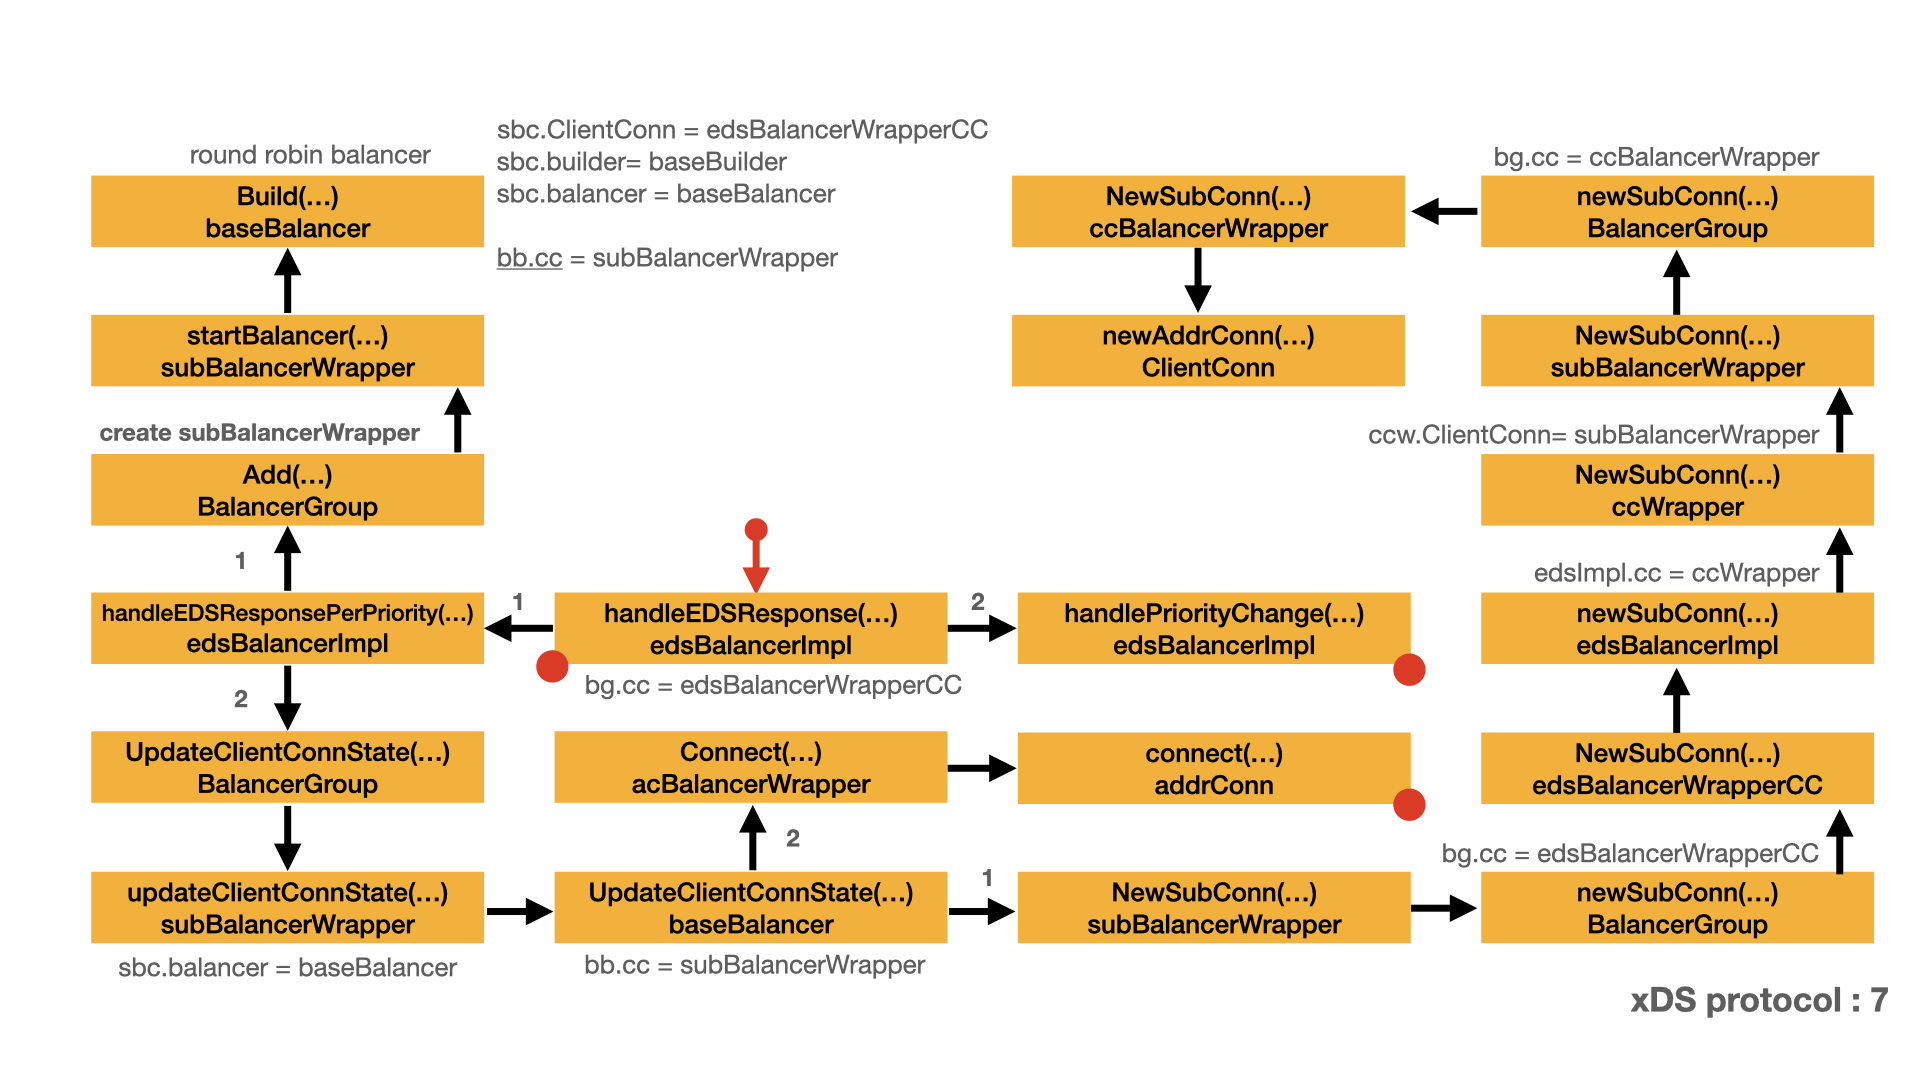
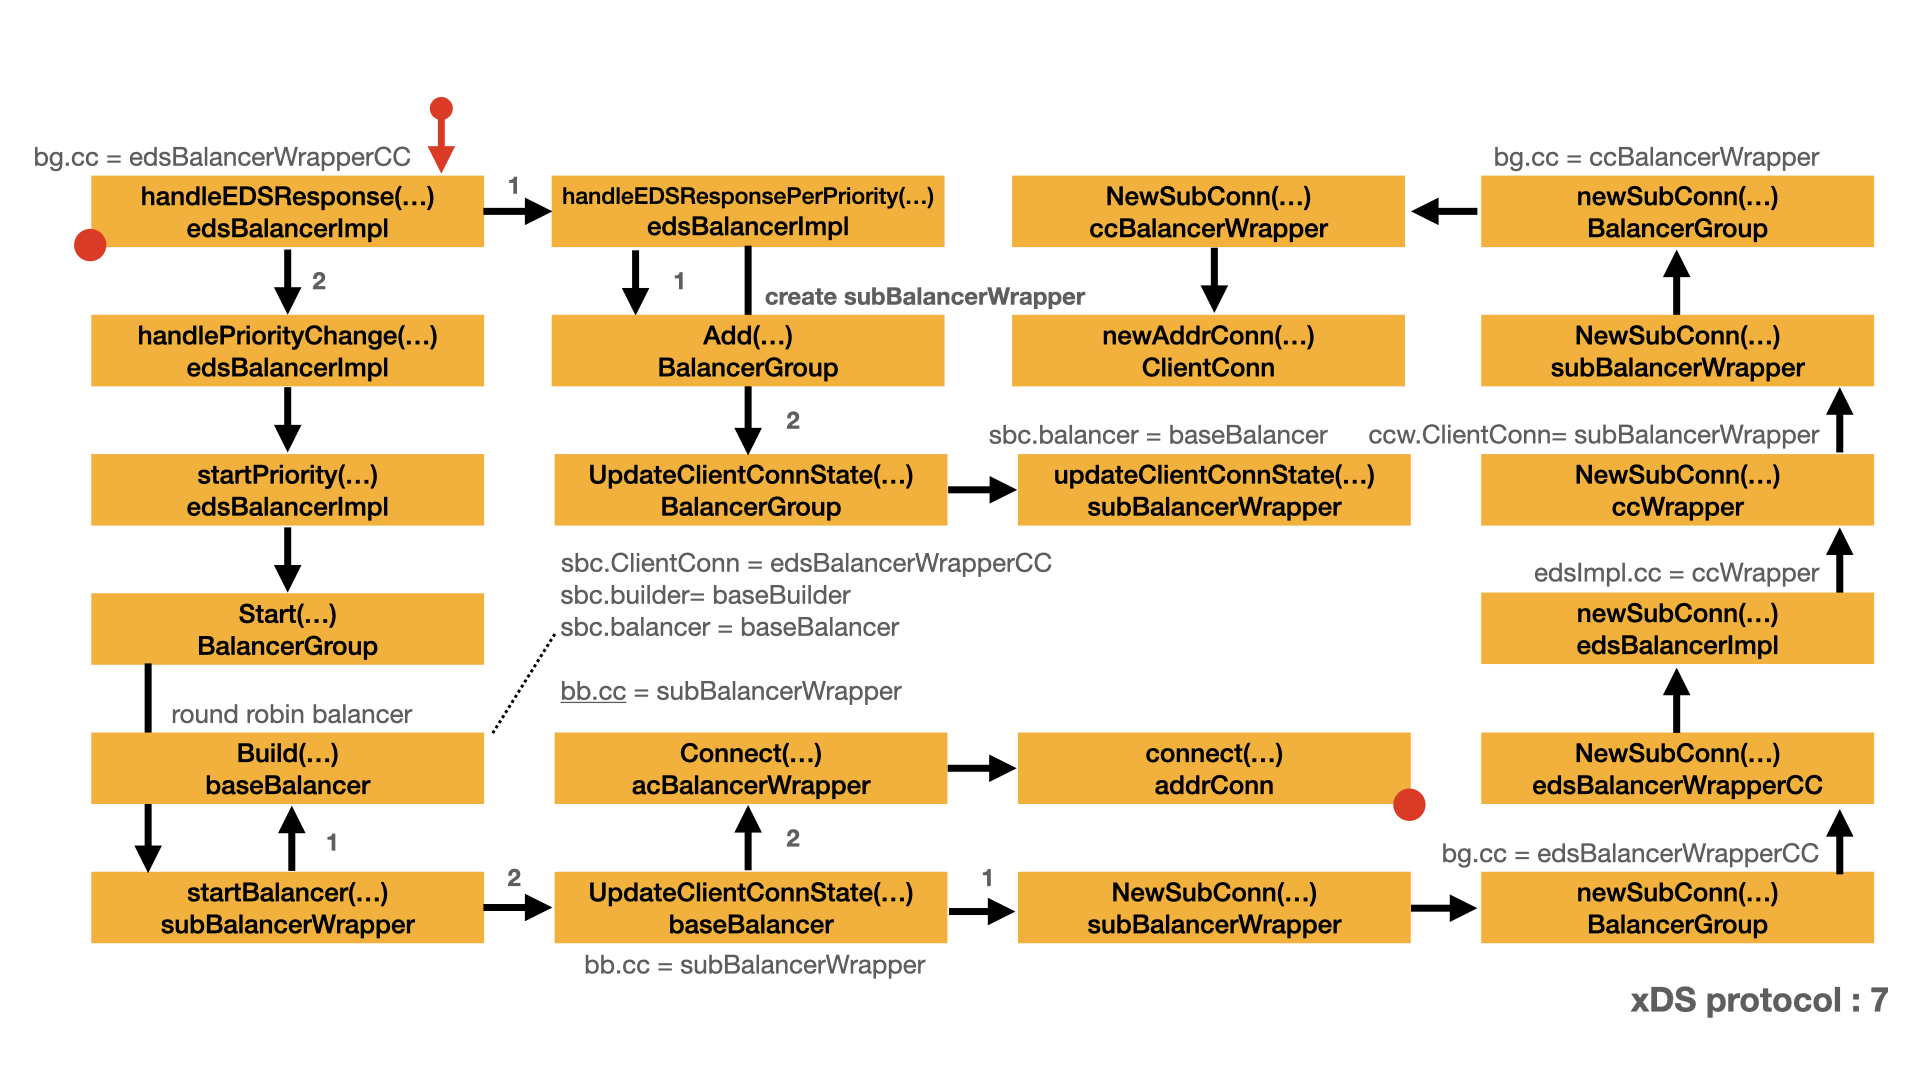
rewrite handlePriorityChange()

diff --git a/docs/conn.md b/docs/conn.md
@@ -2,6 +2,7 @@
 
 - [Connect to upstream server](#connect-to-upstream-server)
   - [Add sub balancer](#add-sub-balancer)
+  - [Start balancer](#start-balancer)
   - [Update connection state](#update-connection-state)
   - [Prepare for the sub-connection](#prepare-for-the-sub-connection)
   - [Start connection](#start-connection)
@@ -13,7 +14,9 @@
 
 ## Connect to upstream server
 
-This is the second article of EDS processing. xDS protocol is a complex protocol. Compare with `pickfirst` balancer, xDS needs more steps to connect with the upstream server. After the [Process EDS update](eds2.md#process-eds-update), we are ready to initialize endpoints by priority.
+EDS response endpoints is re-ordered by priority. Each priority has a balancer group. Each priority contains several localities. Each locality contains several endpoints. Each locality has a sub-balancer for those endpoints. Each locality is a member of the previous balancer group.
+
+This is the second article of EDS processing. xDS protocol is a complex protocol. Compare with `pickfirst` balancer, xDS needs more steps to connect with the upstream server. After the [Process EDS update](eds2.md#process-eds-update), we are ready to initialize endpoints by priority. Only the priority in use is started, other priority locality is waiting for start.
 
 In this stage, we continue the discussion of xDS protocol: connect to upstream server.  Here is the map for this stage. In this map:
 
@@ -93,15 +96,13 @@ func New(cc balancer.ClientConn, stateAggregator BalancerStateAggregator, loadSt
 }
 ```
 
-`edsImpl.handleEDSResponsePerPriority()` is called to initialize endpoints by priority. Each priority may has several endpoints.
+`edsImpl.handleEDSResponsePerPriority()` creates a sub-balancer for each locality, the sub-balancer contains the address of all the endpoints.
 
 In `handleEDSResponsePerPriority()`, for each `locality`, if the `locality` doesn't exist in `bgwc.configs`, calls `bgwc.bg.Add()` to add it.
 
 - `bgwc.bg.Add()` is actually `BalancerGroup.Add()`.
 - `edsImpl.subBalancerBuilder` is the argument for the `builder balancer.Builder` parameter.
 - `lidJSON` is the JSON representation of `locality.ID`, as the argument for the `id string` parameter.
-
-Let's discuss the `BalancerGroup.Add()` first.
 
 If the `locality` is added, which means `addrsChanged = true`, `handleEDSResponsePerPriority()` calls `bgwc.bg.UpdateClientConnState()` to forward the request to `bgwc.bg`.
 
@@ -110,7 +111,7 @@ If the `locality` is added, which means `addrsChanged = true`, `handleEDSRespons
 - `bgwc` is created in previous `handleEDSResponse()`.
 - `bgwc.bg` is also created in previous `handleEDSResponse()`. `bgwc.bg.cc` is of type `edsBalancerWrapperCC`.
 
-After the discuss of `BalancerGroup.Add()`, Let's discuss the `UpdateClientConnState()` in detail.
+Let's discuss the `BalancerGroup.Add()` first.
 
 ```go
 func (edsImpl *edsBalancerImpl) handleEDSResponsePerPriority(bgwc *balancerGroupWithConfig, newLocalities []xdsclient.Locality) {
@@ -272,11 +273,14 @@ func NewBalancerBuilder(name string, pb PickerBuilder, config Config) balancer.B
 }
 ```
 
-`BalancerGroup.Add()` creates a `subBalancerWrapper` and  calls `sbc.startBalancer()` to build and initialize the `balancer`.
+`BalancerGroup.Add()` creates a `subBalancerWrapper`, which wraps the real `balancer`.
 
 - Here, the `group` field of `sbc` is assigned the value of `bg`.
 - Please note that `subBalancerWrapper.ClientConn` get the value from `bg.cc`, while `bgwc.bg.cc` is of type `edsBalancerWrapperCC`.
 - Which means `subBalancerWrapper.ClientConn` is of type `edsBalancerWrapperCC`.
+- In our case, the first EDS response, `bg.outgoingStarted` is false. `sbc.startBalancer()` will not be called.
+
+`sbc.startBalancer()` is not called, which means the sub-balancer for this locality just hold the static data, it will not connect with the upstream server.
 
 ```go
 // Add adds a balancer built by builder to the group, with given id.
@@ -327,11 +331,222 @@ func (bg *BalancerGroup) Add(id string, builder balancer.Builder) {
 }
 ```
 
-`sbc.startBalancer()` calls `sbc.builder.Build()` to create a balancer. `sbc.builder.Build()` is actually `baseBuilder.Build()`.
+After sub-balancer is created and added to the balancer group, `handleEDSResponsePerPriority()` calls `bgwc.bg.UpdateClientConnState()` to forward the request to balancer group. In `BalancerGroup.UpdateClientConnState()`,
+
+- `bg.idToBalancerConfig[id]` is checked, if `id` exists, then calls `config.updateClientConnState()`.
+- Here, `config` is of type `*subBalancerWrapper`.
+- `bg.idToBalancerConfig[id]` is created in `BalancerGroup.Add()`.
+- `config.updateClientConnState()` is actually `subBalancerWrapper.updateClientConnState()`.
+
+```go
+// UpdateClientConnState handles ClientState (including balancer config and
+// addresses) from resolver. It finds the balancer and forwards the update.
+func (bg *BalancerGroup) UpdateClientConnState(id string, s balancer.ClientConnState) error {
+    bg.outgoingMu.Lock()
+    defer bg.outgoingMu.Unlock()
+    if config, ok := bg.idToBalancerConfig[id]; ok {
+        return config.updateClientConnState(s)
+    }
+    return nil
+}
+```
+
+In `subBalancerWrapper.updateClientConnState()`,  `sbc.ccState` is set. While this sub-balancer is not started, the `sbc.balancer` field is nil.
+
+- Here the important thing is the `sbc.ccState` field is set.
+
+Add sub balancer is initialized and ready to be started.
+
+```go
+func (sbc *subBalancerWrapper) updateClientConnState(s balancer.ClientConnState) error {
+    sbc.ccState = &s
+    b := sbc.balancer
+    if b == nil {
+        // This sub-balancer was closed. This should never happen because
+        // sub-balancers are closed when the locality is removed from EDS, or
+        // the balancer group is closed. There should be no further address
+        // updates when either of this happened.
+        //
+        // This will be a common case with priority support, because a
+        // sub-balancer (and the whole balancer group) could be closed because
+        // it's the lower priority, but it can still get address updates.
+        return nil
+    }
+    return b.UpdateClientConnState(s)
+}
+
+```
+
+### Start balancer
+
+Now all the locality has a sub-balancer. `handleEDSResponse()` calls `edsImpl.handlePriorityChange()` to activate some of the balancer.
+
+`handlePriorityChange()` handles several cases of priority change. Here, we focus on the first EDS response case. For that case, `handlePriorityChange()` calls `edsImpl.startPriority()`
+
+```go
+// handlePriorityChange handles priority after EDS adds/removes a
+// priority.
+//
+// - If all priorities were deleted, unset priorityInUse, and set parent
+// ClientConn to TransientFailure
+// - If priorityInUse wasn't set, this is either the first EDS resp, or the
+// previous EDS resp deleted everything. Set priorityInUse to 0, and start 0.
+// - If priorityInUse was deleted, send the picker from the new lowest priority
+// to parent ClientConn, and set priorityInUse to the new lowest.
+// - If priorityInUse has a non-Ready state, and also there's a priority lower
+// than priorityInUse (which means a lower priority was added), set the next
+// priority as new priorityInUse, and start the bg.
+func (edsImpl *edsBalancerImpl) handlePriorityChange() {
+    edsImpl.priorityMu.Lock()
+    defer edsImpl.priorityMu.Unlock()
+
+    // Everything was removed by EDS.
+    if !edsImpl.priorityLowest.isSet() {
+        edsImpl.priorityInUse = newPriorityTypeUnset()
+        // Stop the init timer. This can happen if the only priority is removed
+        // shortly after it's added.
+        if timer := edsImpl.priorityInitTimer; timer != nil {
+            timer.Stop()
+            edsImpl.priorityInitTimer = nil
+        }
+        edsImpl.cc.UpdateState(balancer.State{ConnectivityState: connectivity.TransientFailure, Picker: base.NewErrPicker(errAllPrioritiesRemoved)})
+        return
+    }
+
+    // priorityInUse wasn't set, use 0.
+    if !edsImpl.priorityInUse.isSet() {
+        edsImpl.logger.Infof("Switching priority from unset to %v", 0)
+        edsImpl.startPriority(newPriorityType(0))
+        return
+    }
+
+    // priorityInUse was deleted, use the new lowest.
+    if _, ok := edsImpl.priorityToLocalities[edsImpl.priorityInUse]; !ok {
+        oldP := edsImpl.priorityInUse
+        edsImpl.priorityInUse = edsImpl.priorityLowest
+        edsImpl.logger.Infof("Switching priority from %v to %v, because former was deleted", oldP, edsImpl.priorityInUse)
+        if s, ok := edsImpl.priorityToState[edsImpl.priorityLowest]; ok {
+            edsImpl.cc.UpdateState(*s)
+        } else {
+            // If state for priorityLowest is not found, this means priorityLowest was
+            // started, but never sent any update. The init timer fired and
+            // triggered the next priority. The old_priorityInUse (that was just
+            // deleted EDS) was picked later.
+            //
+            // We don't have an old state to send to parent, but we also don't
+            // want parent to keep using picker from old_priorityInUse. Send an
+            // update to trigger block picks until a new picker is ready.
+            edsImpl.cc.UpdateState(balancer.State{ConnectivityState: connectivity.Connecting, Picker: base.NewErrPicker(balancer.ErrNoSubConnAvailable)})
+        }
+        return
+    }
+
+    // priorityInUse is not ready, look for next priority, and use if found.
+    if s, ok := edsImpl.priorityToState[edsImpl.priorityInUse]; ok && s.ConnectivityState != connectivity.Ready {
+        pNext := edsImpl.priorityInUse.nextLower()
+        if _, ok := edsImpl.priorityToLocalities[pNext]; ok {
+            edsImpl.logger.Infof("Switching priority from %v to %v, because latter was added, and former wasn't Ready")
+            edsImpl.startPriority(pNext)
+        }
+    }
+}
+```
+
+`startPriority()` sets `priorityInUse` to the specified parameter, in our case, it's priority 0. `startPriority()` also starts the balancer group.
+
+- `startPriority()` calls `p.stateAggregator.Start()` to start the `Aggregator`.
+- `startPriority()` calls `p.bg.Start()` to start the `BalancerGroup`.
+
+```go
+// startPriority sets priorityInUse to p, and starts the balancer group for p.
+// It also starts a timer to fall to next priority after timeout.
+//
+// Caller must hold priorityMu, priority must exist, and edsImpl.priorityInUse
+// must be non-nil.
+func (edsImpl *edsBalancerImpl) startPriority(priority priorityType) {
+    edsImpl.priorityInUse = priority
+    p := edsImpl.priorityToLocalities[priority]
+    // NOTE: this will eventually send addresses to sub-balancers. If the
+    // sub-balancer tries to update picker, it will result in a deadlock on
+    // priorityMu in the update is handled synchronously. The deadlock is
+    // currently avoided by handling balancer update in a goroutine (the run
+    // goroutine in the parent eds balancer). When priority balancer is split
+    // into its own, this asynchronous state handling needs to be copied.
+    p.stateAggregator.Start()
+    p.bg.Start()
+    // startPriority can be called when
+    // 1. first EDS resp, start p0
+    // 2. a high priority goes Failure, start next
+    // 3. a high priority init timeout, start next
+    //
+    // In all the cases, the existing init timer is either closed, also already
+    // expired. There's no need to close the old timer.
+    edsImpl.priorityInitTimer = time.AfterFunc(defaultPriorityInitTimeout, func() {
+        edsImpl.priorityMu.Lock()
+        defer edsImpl.priorityMu.Unlock()
+        if !edsImpl.priorityInUse.isSet() || !edsImpl.priorityInUse.equal(priority) {
+            return
+        }
+        edsImpl.priorityInitTimer = nil
+        pNext := priority.nextLower()
+        if _, ok := edsImpl.priorityToLocalities[pNext]; ok {
+            edsImpl.startPriority(pNext)
+        }
+    })
+}
+```
+
+`Aggregator.Start()` just set the `wbsa.started` to true.
+
+```go
+// Start starts the aggregator. It can be called after Close to restart the
+// aggretator.
+func (wbsa *Aggregator) Start() {
+    wbsa.mu.Lock()
+    defer wbsa.mu.Unlock()
+    wbsa.started = true
+}
+```
+
+`BalancerGroup.Start()` starts all the sub-balancers for this priority.
+
+- `BalancerGroup.Start()` sets the `bg.incomingStarted` and `bg.outgoingStarted` to true.
+- For each locality, `BalancerGroup.Start()` calls `config.startBalancer()` to start the sub-balancer.
+- `config.startBalancer()` is `subBalancerWrapper.startBalancer()`.
+
+```go
+// Start starts the balancer group, including building all the sub-balancers,
+// and send the existing addresses to them.
+//
+// A BalancerGroup can be closed and started later. When a BalancerGroup is
+// closed, it can still receive address updates, which will be applied when
+// restarted.
+func (bg *BalancerGroup) Start() {
+    bg.incomingMu.Lock()
+    bg.incomingStarted = true
+    bg.incomingMu.Unlock()
+
+    bg.outgoingMu.Lock()
+    if bg.outgoingStarted {
+        bg.outgoingMu.Unlock()
+        return
+    }
+
+    for _, config := range bg.idToBalancerConfig {
+        config.startBalancer()
+    }
+    bg.outgoingStarted = true
+    bg.outgoingMu.Unlock()
+}
+```
+
+`subBalancerWrapper.startBalancer()` calls `sbc.builder.Build()` to create a balancer. `sbc.builder.Build()` is actually `baseBuilder.Build()`.
 
 - `baseBuilder.Build()` returns `baseBalancer`.
 - `baseBalancer` is assigned to `sbc.balancer`. Which means `sbc.balancer` is of type `baseBalancer`.
 - Please note that `startBalancer()` uses `sbc` as the `cc ClientConn` parameter, which means `baseBalancer.cc` is of type `subBalancerWrapper`.  
+
+`subBalancerWrapper.startBalancer()` calls `b.UpdateClientConnState()`, which is actually `baseBalancer.UpdateClientConnState()`.
 
 ```go
 func (sbc *subBalancerWrapper) startBalancer() {
@@ -362,51 +577,6 @@ func (bb *baseBuilder) Build(cc balancer.ClientConn, opt balancer.BuildOptions) 
 ```
 
 ### Update connection state
-
-Now the `subBalancerWrapper` and `baseBalancer` pair is created for each `locality`. It's time to notify the other parts of gRPC. In `BalancerGroup.UpdateClientConnState()`,
-
-- `bg.idToBalancerConfig[id]` is checked, if `id` exists, then calls `config.updateClientConnState()`.
-- Here, `config` is of type `*subBalancerWrapper`.
-- `bg.idToBalancerConfig[id]` is created in `BalancerGroup.Add()`.
-- `config.updateClientConnState()` is actually `subBalancerWrapper.updateClientConnState()`.
-
-```go
-// UpdateClientConnState handles ClientState (including balancer config and
-// addresses) from resolver. It finds the balancer and forwards the update.
-func (bg *BalancerGroup) UpdateClientConnState(id string, s balancer.ClientConnState) error {
-    bg.outgoingMu.Lock()
-    defer bg.outgoingMu.Unlock()
-    if config, ok := bg.idToBalancerConfig[id]; ok {
-        return config.updateClientConnState(s)
-    }
-    return nil
-}
-```
-
-In `subBalancerWrapper.updateClientConnState()`,  `sbc.ccState` is set.
-
-- From the previous section, we know that `sbc.balancer` is of type `baseBalancer`.
-- When `b.UpdateClientConnState()` is called, which is actually `baseBalancer.UpdateClientConnState()`.
-- `baseBalancer` implements `UpdateClientConnState` method.
-
-```go
-func (sbc *subBalancerWrapper) updateClientConnState(s balancer.ClientConnState) error {
-    sbc.ccState = &s
-    b := sbc.balancer
-    if b == nil {
-        // This sub-balancer was closed. This should never happen because
-        // sub-balancers are closed when the locality is removed from EDS, or
-        // the balancer group is closed. There should be no further address
-        // updates when either of this happened.
-        //
-        // This will be a common case with priority support, because a
-        // sub-balancer (and the whole balancer group) could be closed because
-        // it's the lower priority, but it can still get address updates.
-        return nil
-    }
-    return b.UpdateClientConnState(s)
-}
-```
 
 In `baseBalancer.UpdateClientConnState()`, for each item in `s.ResolverState.Addresses`, `b.cc.NewSubConn()` and `sc.Connect()` is called. `UpdateClientConnState()` will creates the sub-connections with the upstream endpoints. The sub-connection is stored in `b.subConns`.
 

diff --git a/docs/cds.md b/docs/cds.md
@@ -21,6 +21,7 @@
   - [Process EDS update](eds2.md#process-eds-update)
 - [Connect to upstream server](conn.md#connect-to-upstream-server)
   - [Add sub balancer](conn.md#add-sub-balancer)
+  - [Start balancer](conn.md#start-balancer)
   - [Update connection state](conn.md#update-connection-state)
   - [Prepare for the sub-connection](conn.md#prepare-for-the-sub-connection)
   - [Start connection](conn.md#start-connection)

diff --git a/docs/conn2.md b/docs/conn2.md
@@ -2,6 +2,7 @@
 
 - [Connect to upstream server](conn.md#connect-to-upstream-server)
   - [Add sub balancer](conn.md#add-sub-balancer)
+  - [Start balancer](conn.md#start-balancer)
   - [Update connection state](conn.md#update-connection-state)
   - [Prepare for the sub-connection](conn.md#prepare-for-the-sub-connection)
   - [Start connection](conn.md#start-connection)
